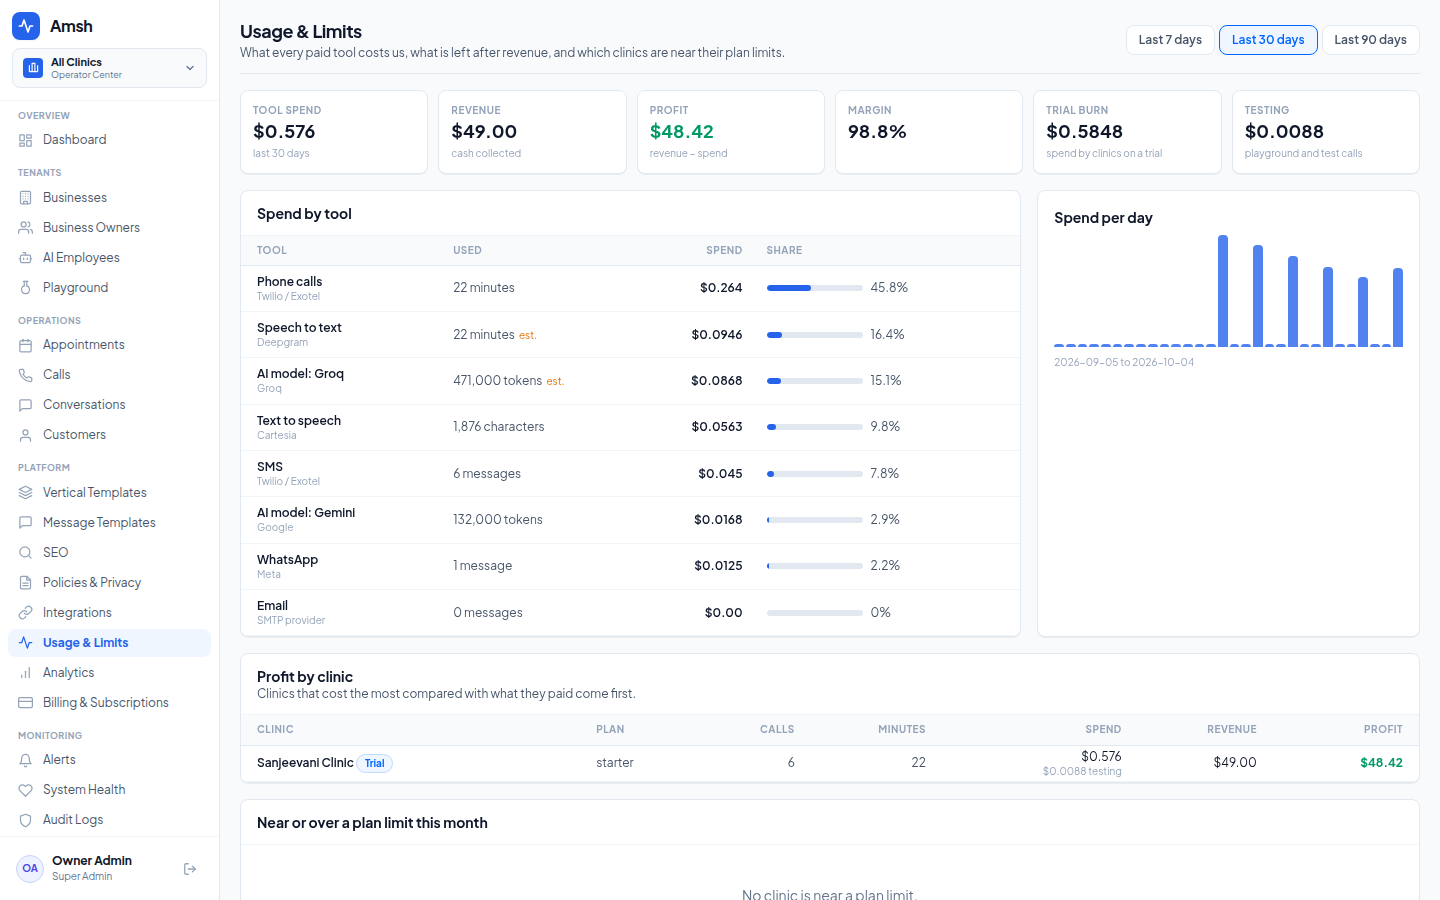
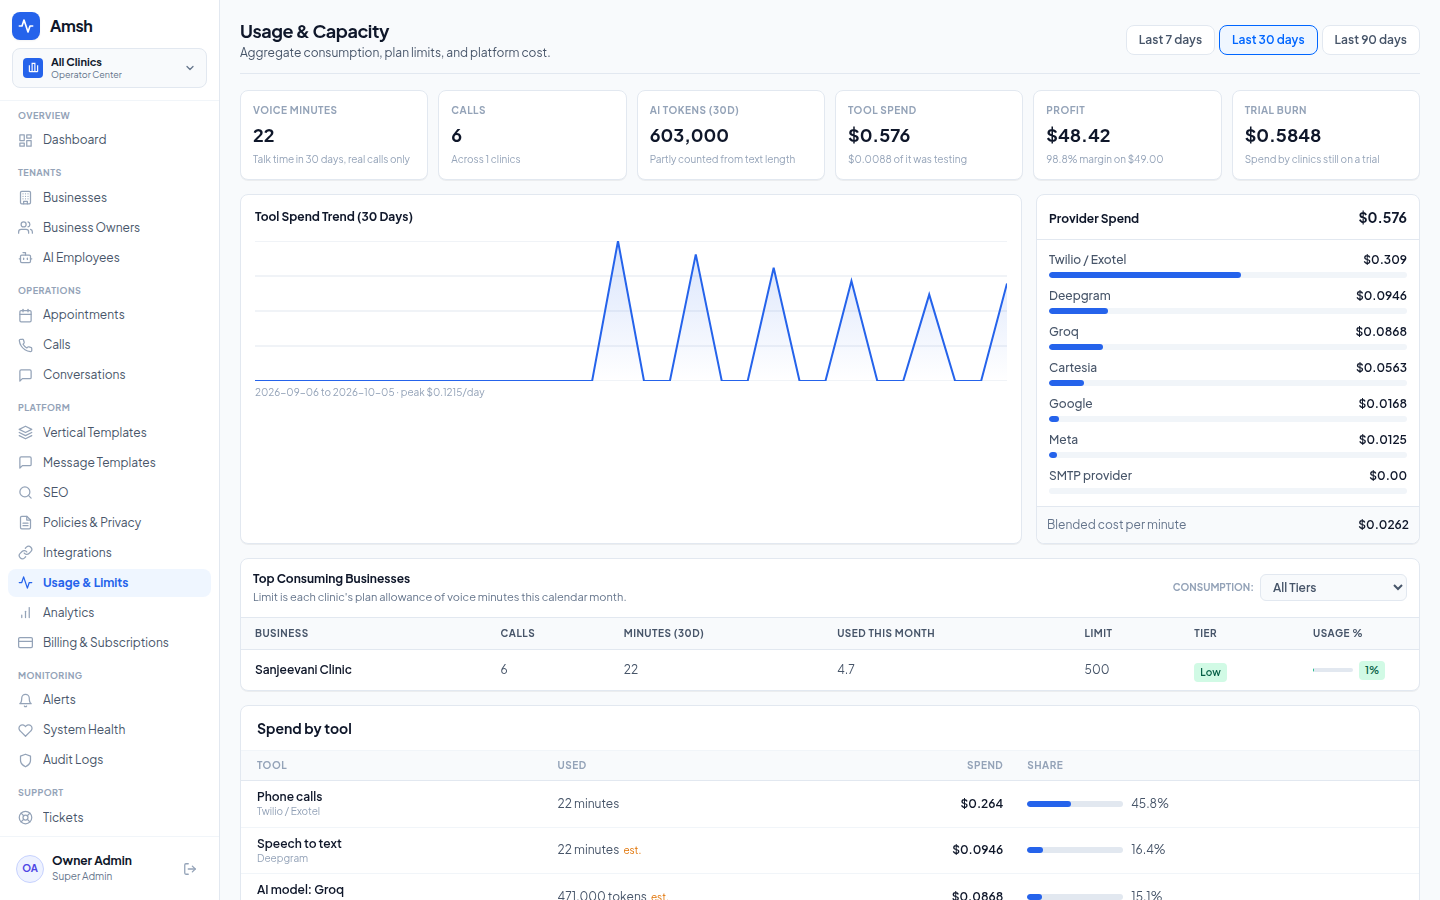
Browser e2e: cover patients and sign out everywhere; follow the admin Voice Studio and the v1.4 usage chart
The admin /playground page was removed (its test now drives the Voice Studio on AI Receptionists, which is always in
test mode) and the usage trend is a line chart now. 38 browser checks pass; screenshots and results refreshed.

Claude-Session: https://claude.ai/code/session_019Nr7qSMVL6PiaFyxE3fj6R

diff --git a/testing/e2e_browser.py b/testing/e2e_browser.py
@@ -94,18 +94,18 @@ def admin_flow(browser, owner_token_unused: str) -> None:
     check("admin: category tab filters to trials", "started a free trial" in page.inner_text("[data-testid=alerts]") and "Sign-in" not in page.inner_text("[data-testid=alerts]"))
     shot(page, "admin-03-alerts-trials")
 
-    page.goto(f"{ADMIN}/playground", wait_until="networkidle")
-    page.wait_for_selector("select option:has-text('Sanjeevani Clinic')", state="attached")
-    check("admin: playground shows the test-mode banner", "Test mode" in page.inner_text("[data-testid=test-mode-banner]"))
-    value = page.locator("select option", has_text="Sanjeevani Clinic").first.get_attribute("value")  # labelled "(trial)" while on a trial
-    page.select_option("select", value=value)
-    page.fill("input[aria-label='Caller message']", "I want to book a checkup tomorrow at 10 AM")
-    page.click("button:has-text('Send')")
-    page.wait_for_selector("[data-testid=chat] >> text=thinking", state="detached", timeout=60000)
+    # The admin playground page was replaced by the Voice Studio on AI Receptionists (always test mode on the server)
+    page.goto(f"{ADMIN}/receptionists", wait_until="networkidle")
+    page.locator("tr", has_text="Sanjeevani Clinic").get_by_role("button", name="Voice Studio & Orb").first.click()
+    box = page.get_by_placeholder("Type a message (or speak via live mic above)...")
+    box.fill("I want to book a checkup tomorrow at 10 AM")
+    page.get_by_role("button", name="Send", exact=True).click()
+    page.wait_for_selector("button:has-text('Thinking...')", state="detached", timeout=60000)
     page.wait_for_timeout(500)
-    chat = page.inner_text("[data-testid=chat]")
-    check("admin: playground gets a reply for the chosen clinic", chat.count("\n") >= 1 and "book a checkup" in chat, chat[:200])
-    shot(page, "admin-04-playground")
+    replies = page.locator("text=(AI)").count()
+    check("admin: voice studio sends a test turn and shows the reply", replies >= 2 and page.locator("text=book a checkup").count() >= 1, f"{replies} AI messages")
+    shot(page, "admin-04-voice-studio")
+    page.get_by_role("button", name="Close studio").click()
 
     page.goto(f"{ADMIN}/usage", wait_until="networkidle")
     page.wait_for_selector("text=Spend by tool")
@@ -113,8 +113,9 @@ def admin_flow(browser, owner_token_unused: str) -> None:
     check("admin: usage page shows spend, revenue and profit", all(w.lower() in text.lower() for w in ("Tool spend", "Revenue", "Profit", "Margin")))  # labels are uppercased by CSS
     check("admin: usage page lists the tools and the clinic", all(w in text for w in ("Text to speech", "Phone calls", "SMS", "Sanjeevani Clinic")))
     check("admin: usage page notes that prices are estimates", "estimates" in text)
-    bar = page.locator("[aria-label='Daily spend'] > div > div").last.bounding_box()  # a chart whose bars have no height is a real bug this test once caught
-    check("admin: the daily spend chart draws bars", bar is not None and bar["height"] > 3, str(bar))
+    # the trend is a line chart now (v1.4 design); an empty or flat path is the bug this check is for
+    line = page.locator("svg[aria-label^='Daily tool spend'] path[fill='none']").first.get_attribute("d") or ""
+    check("admin: the daily spend chart draws a line", line.count("L") >= 2, line[:80])
     shot(page, "admin-05-usage")
     price = page.locator("input[aria-label='Text to speech price']")
     price.fill("0.06")
@@ -229,6 +230,52 @@ def user_flow(browser) -> None:
     page.get_by_role("button", name="Accept all").click()
     page.wait_for_selector("text=needs your acceptance", state="detached", timeout=10000)
     check("user: accepting the new version clears the banner", True)
+
+    # ---- patients: a booking shows up as a patient; add, edit, history, remove
+    api = f"http://127.0.0.1:{API_PORT}"
+    owner, me = h.login(api, h.OWNER_EMAIL, h.OWNER_PASSWORD)
+    biz = me["business_id"]
+    h.call(api, "POST", f"/api/businesses/{biz}/appointments", {"customer_name": "Asha Verma", "phone_number": "+91 98765 43210",
+           "service_name": "General Consultation", "preferred_date": "2099-01-15", "preferred_time": "10:00 AM"}, owner)
+    page.goto(f"{USER}/patients", wait_until="networkidle")
+    page.wait_for_selector("tr:has-text('Asha Verma')", timeout=15000)
+    row = page.locator("tr", has_text="Asha Verma")
+    check("user: a booking appears as a patient with its next visit", "2099-01-15" in row.inner_text(), row.inner_text())
+    page.get_by_role("button", name="Add Patient").first.click()
+    page.fill("input[placeholder^='e.g. Parikshit']", "Ravi Kumar")
+    page.fill("input[type=tel]", "+91 11111 22222")
+    page.get_by_role("button", name="Register Patient").click()
+    page.wait_for_selector("tr:has-text('Ravi Kumar')", timeout=10000)
+    _, appts = h.call(api, "GET", f"/api/businesses/{biz}/appointments", token=owner)
+    check("user: adding a patient does not create an appointment", [a["customer_name"] for a in appts] == ["Asha Verma"], str([a["customer_name"] for a in appts]))
+    page.get_by_role("button", name="Edit Ravi Kumar").click()
+    page.fill("textarea", "Allergic to penicillin")
+    page.get_by_role("button", name="Save Changes").click()
+    page.wait_for_selector("text=Edit Patient", state="detached", timeout=10000)
+    page.get_by_role("button", name="Visit history of Asha Verma").click()
+    page.wait_for_selector("[role=dialog] >> text=General Consultation", timeout=10000)
+    check("user: patient history lists the appointment", "appointments (1)" in page.inner_text("[role=dialog]").lower())  # heading is uppercased by CSS
+    shot(page, "user-07-patient-history")
+    page.keyboard.press("Escape")
+    page.get_by_role("button", name="Remove Ravi Kumar").click()
+    page.get_by_role("button", name="Confirm").click()
+    page.wait_for_selector("tr:has-text('Ravi Kumar')", state="detached", timeout=10000)
+    check("user: removing a patient takes them off the list", page.locator("tr", has_text="Asha Verma").count() == 1)
+    shot(page, "user-08-patients")
+
+    # ---- sign out everywhere: another session's token stops working, this browser stays in
+    other, _ = h.login(api, h.OWNER_EMAIL, h.OWNER_PASSWORD)
+    page.goto(f"{USER}/settings", wait_until="networkidle")
+    page.get_by_text("Security", exact=True).first.click()
+    page.get_by_role("button", name="Sign out everywhere").click()
+    page.get_by_role("button", name="Confirm").click()
+    page.wait_for_selector("text=Signed out everywhere else", timeout=10000)
+    status_other, _ = h.call(api, "GET", "/api/auth/me", token=other)
+    check("user: sign out everywhere ends the other session", status_other == 401, str(status_other))
+    shot(page, "user-09-sign-out-everywhere")
+    page.goto(f"{USER}/patients", wait_until="networkidle")
+    page.wait_for_selector("tr:has-text('Asha Verma')", timeout=15000)
+    check("user: this browser is still signed in afterwards", True)
     check("user: no uncaught script errors on user pages", not errors, "; ".join(errors)[:300])
     ctx.close()
 
